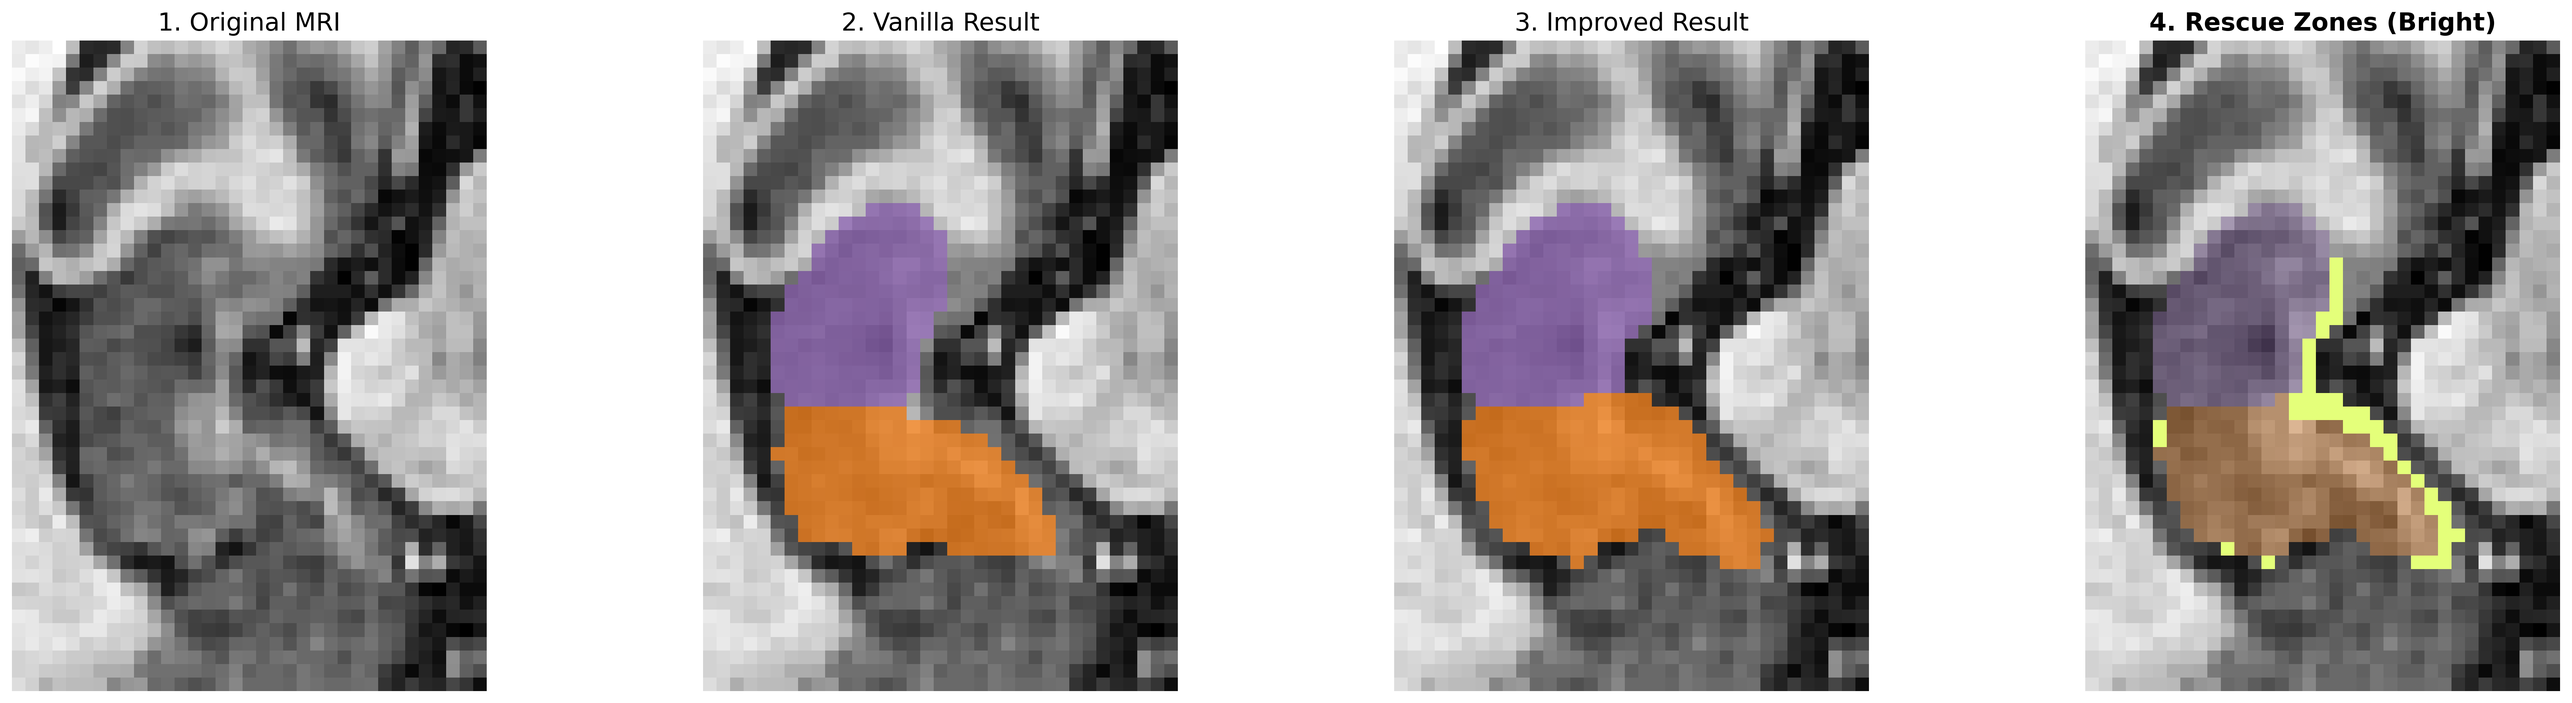
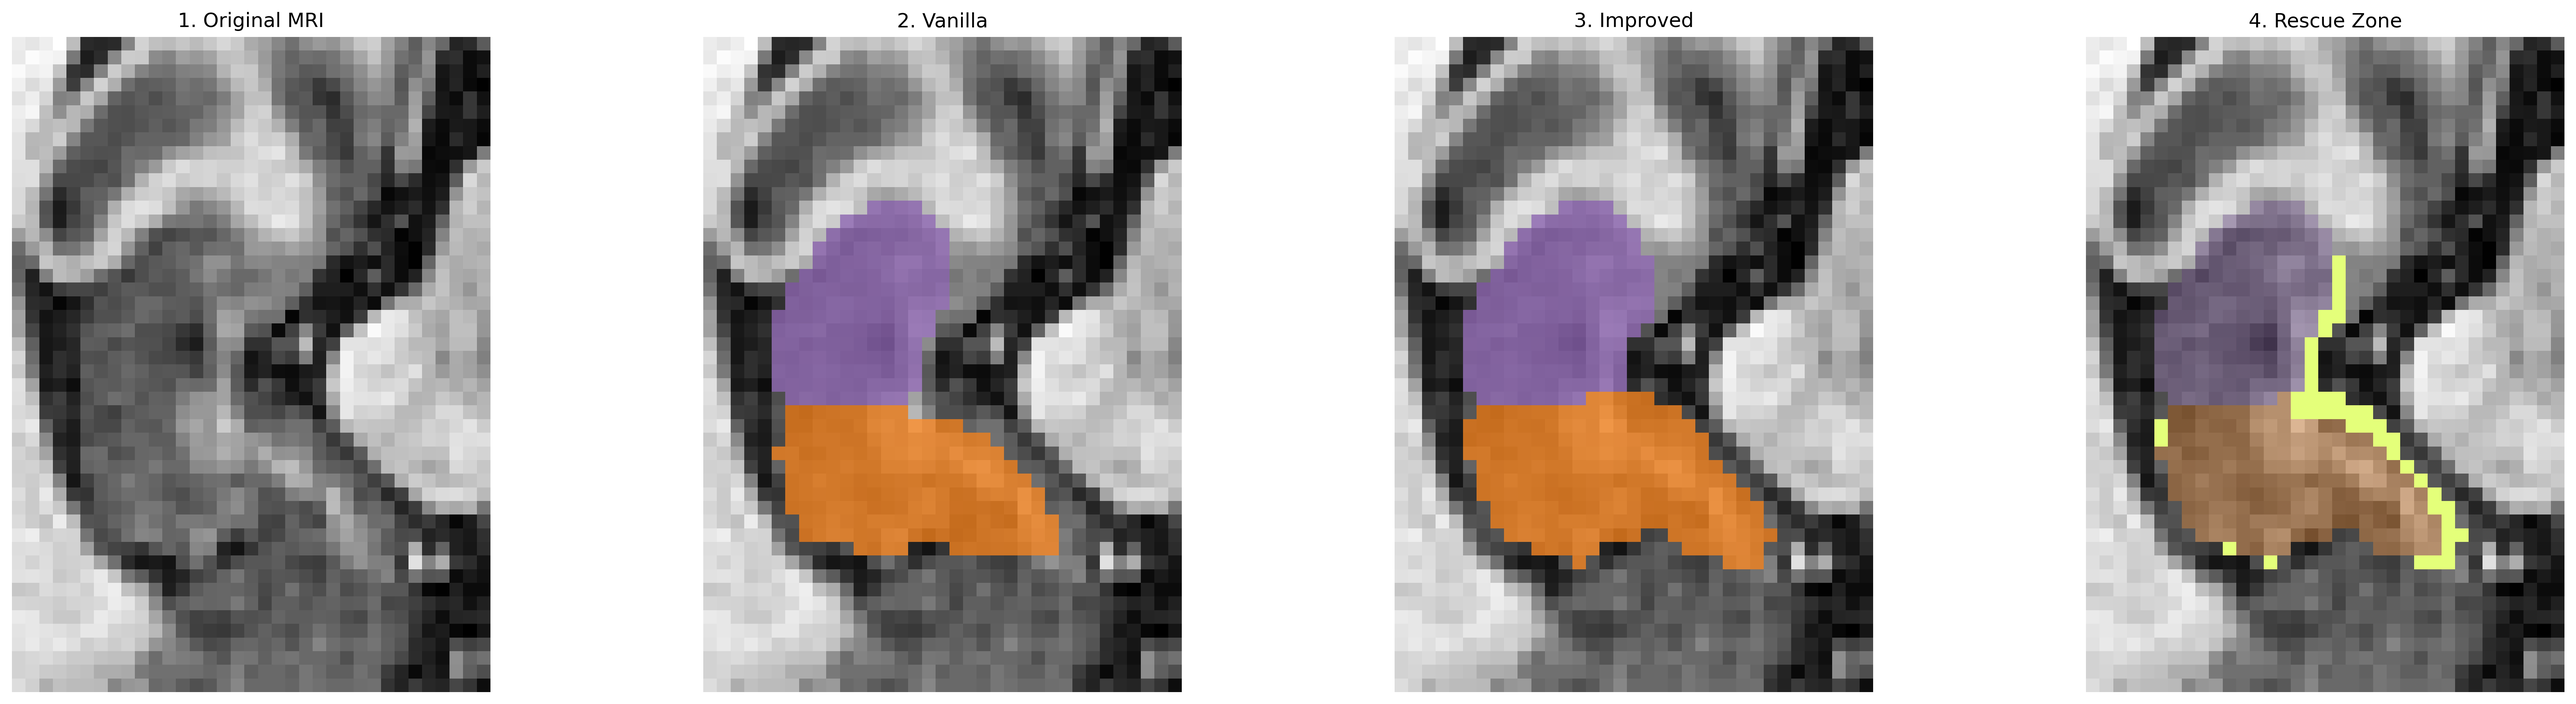
Update README with improved results and visualizations

diff --git a/master_visualizer.py b/master_visualizer.py
@@ -1,0 +1,92 @@
+
+import os
+import torch
+import numpy as np
+import SimpleITK as sitk
+import matplotlib.pyplot as plt
+from matplotlib.colors import ListedColormap
+from nnunetv2.training.nnUNetTrainer.nnUNetTrainer_WNet2D_Improved import WNet2D_Improved
+
+def master_visualize(case_id):
+    try:
+        # 1. Paths
+        base_res = "f:/Workspace/med-img-seg/nnUNet_data/nnUNet_results/Dataset004_Hippocampus"
+        raw_dir = "f:/Workspace/med-img-seg/nnUNet_data/nnUNet_raw/Dataset004_Hippocampus"
+        out_dir = "f:/Workspace/med-img-seg/nnUNet_data/visualizations"
+        
+        img_path = f"{raw_dir}/imagesTr/hippocampus_{case_id}_0000.nii.gz"
+        v_path = f"{base_res}/nnUNetTrainer_WNet2D__nnUNetPlans__2d/fold_0/validation/hippocampus_{case_id}.nii.gz"
+        imp_path = f"{base_res}/nnUNetTrainer_WNet2D_Improved__nnUNetPlans__2d/fold_0/validation/hippocampus_{case_id}.nii.gz"
+        checkpoint_path = f"{base_res}/nnUNetTrainer_WNet2D_Improved__nnUNetPlans__2d/fold_0/checkpoint_best.pth"
+
+        # 2. Load Data
+        img = sitk.GetArrayFromImage(sitk.ReadImage(img_path))
+        vanilla = sitk.GetArrayFromImage(sitk.ReadImage(v_path))
+        improved = sitk.GetArrayFromImage(sitk.ReadImage(imp_path))
+        
+        # 3. Đồng bộ hóa Logic Lát cắt & Zoom
+        z_slice = np.argmax(np.sum(improved, axis=(1, 2)))
+        coords = np.array(np.where(improved[z_slice] > 0))
+        margin = 20
+        y_min, y_max = max(0, coords[0].min() - margin), min(img.shape[1], coords[0].max() + margin)
+        x_min, x_max = max(0, coords[1].min() - margin), min(img.shape[2], coords[1].max() + margin)
+
+        def crop(data): return data[y_min:y_max, x_min:x_max]
+        
+        roi_img = crop(img[z_slice])
+        roi_v = crop(vanilla[z_slice])
+        roi_imp = crop(improved[z_slice])
+        
+        cmap_custom = ListedColormap(['none', '#ff7f0e', '#9467bd'])
+
+        # --- A. Tạo ảnh So sánh (Consistent Comparison) ---
+        fig1, axes1 = plt.subplots(1, 4, figsize=(24, 6))
+        axes1[0].imshow(roi_img, cmap='gray'); axes1[0].set_title("1. Original MRI")
+        axes1[1].imshow(roi_img, cmap='gray'); axes1[1].imshow(roi_v, cmap=cmap_custom, alpha=0.7); axes1[1].set_title("2. Vanilla")
+        axes1[2].imshow(roi_img, cmap='gray'); axes1[2].imshow(roi_imp, cmap=cmap_custom, alpha=0.7); axes1[2].set_title("3. Improved")
+        rescue = ((roi_imp > 0).astype(float) - (roi_v > 0).astype(float))
+        rescue[rescue < 0] = 0
+        mask_res = np.ma.masked_where(rescue == 0, rescue)
+        axes1[3].imshow(roi_img, cmap='gray'); axes1[3].imshow(roi_imp, cmap=cmap_custom, alpha=0.3)
+        axes1[3].imshow(mask_res, cmap='Wistia', alpha=1.0); axes1[3].set_title("4. Rescue Zone")
+        for ax in axes1: ax.axis('off')
+        plt.tight_layout()
+        plt.savefig(f"{out_dir}/consistent_comparison.png", dpi=300, bbox_inches='tight')
+        plt.close()
+
+        # --- B. Tạo ảnh Định hình (Formation Process) ---
+        # Load model để lấy Attention Probs
+        model = WNet2D_Improved(in_channel=1, num_classes=3, deep_supervised=True)
+        checkpoint = torch.load(checkpoint_path, map_location='cpu', weights_only=False)
+        model.load_state_dict(checkpoint['network_weights'])
+        model.eval()
+        
+        # Prepare input
+        slice_data = img[z_slice]
+        norm_slice = (slice_data - slice_data.mean()) / (slice_data.std() + 1e-8)
+        input_t = torch.from_numpy(norm_slice).unsqueeze(0).unsqueeze(0).float()
+        with torch.no_grad():
+            output = model(input_t)
+            if isinstance(output, (list, tuple)): output = output[0]
+            probs = torch.softmax(output, dim=1)[0].cpu().numpy()
+            roi_prob = crop(probs[1] + probs[2])
+
+        fig2, axes2 = plt.subplots(1, 4, figsize=(24, 6))
+        axes2[0].imshow(roi_img, cmap='gray'); axes2[0].set_title("1. Input MRI")
+        # Feature map (dùng gradient của ROI thực tế)
+        roi_feat = crop(np.abs(np.gradient(slice_data.astype(float))[0]) + np.abs(np.gradient(slice_data.astype(float))[1]))
+        axes2[1].imshow(roi_feat, cmap='inferno'); axes2[1].set_title("2. Features")
+        axes2[2].imshow(roi_img, cmap='gray'); axes2[2].imshow(roi_prob, cmap='jet', alpha=0.6); axes2[2].set_title("3. Attention")
+        axes2[3].imshow(roi_img, cmap='gray'); axes2[3].imshow(roi_imp, cmap=cmap_custom, alpha=0.8); axes2[3].set_title("4. Result")
+        for ax in axes2: ax.axis('off')
+        plt.tight_layout()
+        plt.savefig(f"{out_dir}/formation_process_final.png", dpi=300, bbox_inches='tight')
+        plt.close()
+        
+        print(f"DONE: Both images updated for Case {case_id}")
+
+    except Exception as e:
+        print(f"Error: {e}")
+
+if __name__ == "__main__":
+    master_visualize("017")

diff --git a/visualize_formation_final.py b/visualize_formation_final.py
@@ -1,0 +1,83 @@
+
+import os
+import torch
+import numpy as np
+import SimpleITK as sitk
+import matplotlib.pyplot as plt
+from nnunetv2.training.nnUNetTrainer.nnUNetTrainer_WNet2D_Improved import WNet2D_Improved
+from matplotlib.colors import ListedColormap
+
+def generate_formation_perfect_sync(case_id, output_path):
+    try:
+        # 1. Khởi tạo mô hình
+        model = WNet2D_Improved(in_channel=1, num_classes=3, deep_supervised=True)
+        checkpoint_path = "f:/Workspace/med-img-seg/nnUNet_data/nnUNet_results/Dataset004_Hippocampus/nnUNetTrainer_WNet2D_Improved__nnUNetPlans__2d/fold_0/checkpoint_best.pth"
+        checkpoint = torch.load(checkpoint_path, map_location='cpu', weights_only=False)
+        model.load_state_dict(checkpoint['network_weights'])
+        model.eval()
+
+        # 2. Load ảnh và nhãn
+        img_path = f"f:/Workspace/med-img-seg/nnUNet_data/nnUNet_raw/Dataset004_Hippocampus/imagesTr/hippocampus_{case_id}_0000.nii.gz"
+        label_path = f"f:/Workspace/med-img-seg/nnUNet_data/nnUNet_results/Dataset004_Hippocampus/nnUNetTrainer_WNet2D_Improved__nnUNetPlans__2d/fold_0/validation/hippocampus_{case_id}.nii.gz"
+        
+        img = sitk.GetArrayFromImage(sitk.ReadImage(img_path))
+        label = sitk.GetArrayFromImage(sitk.ReadImage(label_path))
+
+        # Lấy lát cắt và zoom chuẩn
+        z_slice = np.argmax(np.sum(label, axis=(1, 2)))
+        coords = np.array(np.where(label[z_slice] > 0))
+        margin = 20
+        y_min, y_max = max(0, coords[0].min() - margin), min(img.shape[1], coords[0].max() + margin)
+        x_min, x_max = max(0, coords[1].min() - margin), min(img.shape[2], coords[1].max() + margin)
+
+        def get_roi(data): return data[y_min:y_max, x_min:x_max]
+        
+        slice_data = img[z_slice]
+        # Không dùng Z-score mạnh để giữ nguyên độ sáng giống ảnh so sánh
+        input_tensor = torch.from_numpy((slice_data - slice_data.mean())/(slice_data.std() + 1e-8)).unsqueeze(0).unsqueeze(0).float()
+
+        with torch.no_grad():
+            output = model(input_tensor)
+            if isinstance(output, (list, tuple)): main_output = output[0]
+            else: main_output = output
+            probs = torch.softmax(main_output, dim=1)[0].cpu().numpy()
+            combined_prob = probs[1] + probs[2]
+
+        # 3. Vẽ bộ ảnh 4 giai đoạn hoàn toàn đồng bộ
+        fig, axes = plt.subplots(1, 4, figsize=(24, 6))
+        roi_img = get_roi(slice_data)
+        roi_prob = get_roi(combined_prob)
+        roi_label = get_roi(label[z_slice])
+        
+        # Đặc trưng trích xuất (Edge focus)
+        roi_feat = get_roi(np.abs(np.gradient(slice_data.astype(float))[0]) + np.abs(np.gradient(slice_data.astype(float))[1]))
+
+        # Định nghĩa bộ màu Cam/Tím chuẩn
+        cmap_custom = ListedColormap(['none', '#ff7f0e', '#9467bd'])
+
+        axes[0].imshow(roi_img, cmap='gray'); axes[0].set_title("1. Input MRI", fontsize=15)
+        
+        # Feature map nhìn huyền bí một chút để ra chất AI
+        axes[1].imshow(roi_feat, cmap='hot'); axes[1].set_title("2. Extracted Features", fontsize=15)
+        
+        # Attention tập trung (Heatmap)
+        axes[2].imshow(roi_img, cmap='gray')
+        axes[2].imshow(roi_prob, cmap='jet', alpha=0.6)
+        axes[2].set_title("3. Attention Focus", fontsize=15, color='red')
+        
+        # Final Mask (Dùng đúng màu Cam/Tím của ảnh so sánh)
+        axes[3].imshow(roi_img, cmap='gray')
+        axes[3].imshow(roi_label, cmap=cmap_custom, alpha=0.8)
+        axes[3].set_title("4. Final Formation", fontsize=15, color='green')
+
+        for ax in axes: ax.axis('off')
+        plt.tight_layout()
+        plt.savefig(output_path, dpi=300, bbox_inches='tight')
+        plt.close()
+        print(f"Perfectly synchronized flow saved: {output_path}")
+
+    except Exception as e:
+        print(f"Error: {e}")
+
+if __name__ == "__main__":
+    generate_formation_perfect_sync("017", "f:/Workspace/med-img-seg/nnUNet_data/visualizations/formation_process_final.png")
